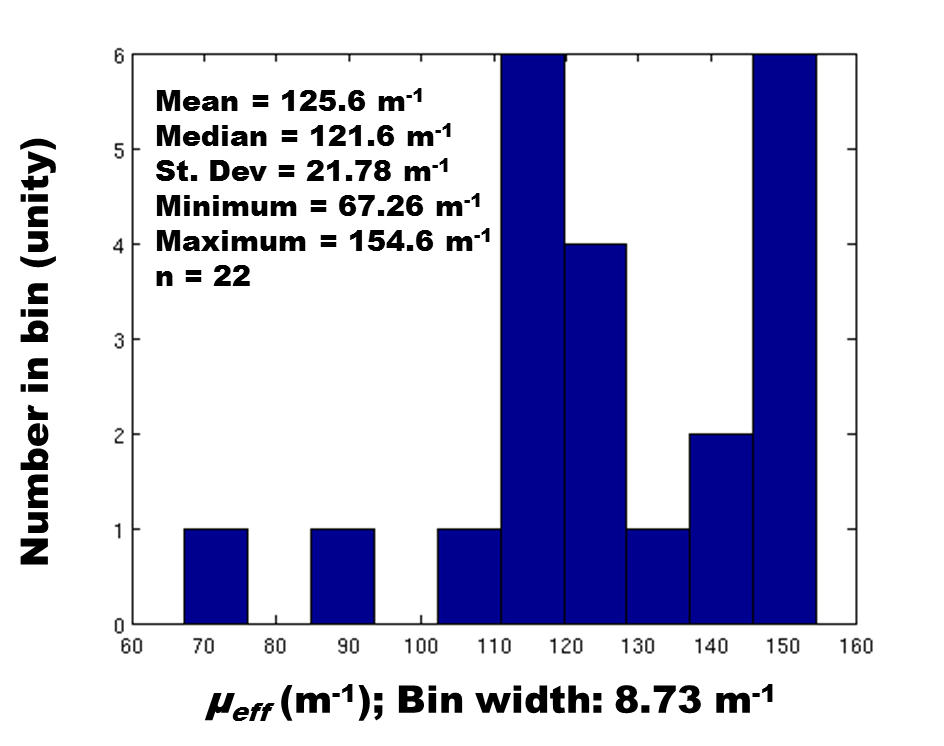
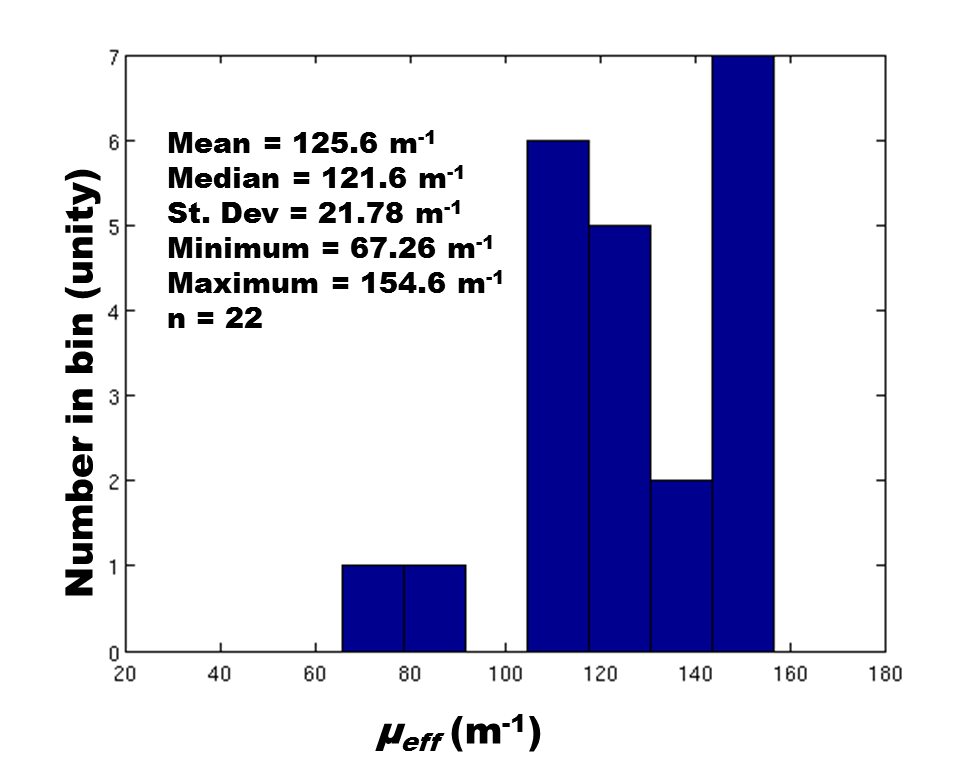
Revised fig 3 and caption and Reviewer Response

Changed region(s): [[0.0, 0.0617, 0.9216, 0.9866]]

diff --git a/gpuPlanningAug13.tex b/gpuPlanningAug13.tex
@@ -253,7 +253,7 @@ As opposed to explicitly storing and reading matrix entries
 from global memory, the matrix-free method recalculates the local matrix entries
 needed within the linear system solve.
 This memory access design pattern has demonstrated a 4-10x speedup  over
-the matrix explicit methods~\cite{Muller2013,Knepley2014,Medina2014}.
+the matrix explicit methods~\cite{Muller2013,Knepley_2_2013,Medina2014}.
 
 Combined with the data, the two modeling approaches presented provide an
 environment to critically evaluate model selection for therapy planning of MRgLITT. 
@@ -309,13 +309,13 @@ within this study.
 %do nothing
 \else
 \begin{tabular}{ccc}
-\scalebox{0.26}{\includegraphics*{\picdir/OverviewApplicator}}  
-&
+\scalebox{0.4}{\includegraphics*{\picdir/OverviewApplicator}} \\ 
+(a)\\
 \scalebox{0.18}{\includegraphics*{\picdir/FEMesh}}  
 &
 \scalebox{0.24}{\includegraphics*{\picdir/powerProfile}}  
 \\
-(a) & (b) & (c)  \\
+(b) & (c)  \\
 \end{tabular}
 \fi
 \caption{
@@ -367,7 +367,7 @@ time-temperature history of the laser exposure.
 In this Arrhenius thermal dose model, the frequency factor, $A$,
 and the activation energy, $E_A$, are 
 experimentally determined kinetic parameters. The values for $A$ and
-$E_A$ were 3.1E98 and 6.28E5,
+$E_A$ were 3.1E98 {\color{red}s\textsuperscript{-1}} and 6.28E5 {\color{red}(J/mol)},
 respectively, and have been used in previous
 studies~\cite{carpentieretal08,schwarzmaier1998treatment,mcnichols2004mr}. 
 $R$ is the universal gas constant.  The thermal dose was assumed to
@@ -820,7 +820,8 @@ model (d) are DSC = 0.8385 and DSC = 0.7442.
 \end{tabular}
 \caption{ 
 Presented here are histograms of calibration analysis from the transient FEM model (a) and steady state model (b),
-shown left and right; respectively. The optical parameters, $\mu_\textit{eff}$,
+shown left and right; respectively. {\color{red}Both histograms have a bin width of \SI{13.0}{\per\metre}.}
+The optical parameters, $\mu_\textit{eff}$,
 recovered from each thermometry dataset considered is shown.
 For each calibration, the bound constrained optimization was
 restricted to a range obtained from literature, $\mu_\textit{eff} \in [0.8,400]$ m$^{-1}$. Leave-one-out cross validation was performed
